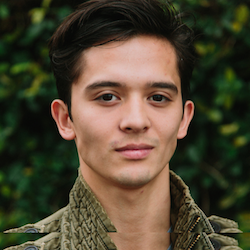
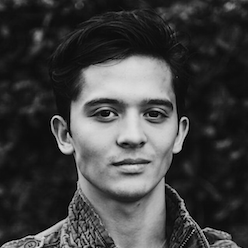
new colors

diff --git a/index.html b/index.html
@@ -27,9 +27,7 @@
                 <li class="block5 leftBlockBottom" id="">
                     <div class="noMargin noPadding animated fadeInanimated fadeIn">courtland gaba<br>(843) 480-5964<br><a href="mailto:courtlandmgaba@gmail.com">courtlandmgaba@gmail.com</a><br>Charleston, SC</div>
                     <div class="noMargin noPadding animated fadeIn">
-                        <a href="https://www.facebook.com/profile.php?id=100009087574948" target="_blank">                <img class="socialLink animated fadeIn" src="assets/images/facebook31.png" height="25px"alt=""></a>
                         <a href="https://www.linkedin.com/profile/view?id=409843816&trk=hp-identity-name" target="_blank"><img class="socialLink animated fadeIn" src="assets/images/linkedin11.png" height="25px"alt=""></a>
-                        <a href="https://twitter.com/courtlandmgaba" target="_blank">                                     <img class="socialLink animated fadeIn" src="assets/images/twitter21.png" height="25px"alt=""></a>
                         <a href="https://github.com/courtlandgaba" target="_blank">                                       <img class="socialLink animated fadeIn" src="assets/images/github7.png" height="25px"alt=""></a>
                         <a href="mailto:courtlandmgaba@gmail.com">                                                        <img class="socialLink animated fadeIn" src="assets/images/email.png" height="25px"alt=""></a>
                     </div>
@@ -93,7 +91,7 @@
             <!-- work -->
                 <div class="section section3" data-anchor="work">
                     <div class="row">
-                        <div class="title col-lg-10 col-lg-offset-1 animated fadeInUp">work</div>
+                        <div class="title col-lg-10 col-lg-offset-1 animated fadeInUp"></div>
                     </div>
                 <!-- dsi -->
                     <div class="slide">
@@ -311,15 +309,13 @@
                     <br>
                     <div class="row">
                         <div class="col-lg-1 col-lg-offset-1 col-md-1 col-md-offset-1  col-sm-2 col-sm-offset-1 col-xs-10 col-xs-offset-1 text-large animated fadeInUp">Tools</div>
-                        <div class="col-lg-8 col-md-8 col-sm-7 col-xs-10 col-xs-10 col-xs-offset-1 text-small paddingBottom animated fadeInUp">Terminal, Github, Git, Atom, Bower, Bootstrap</div>
+                        <div class="col-lg-8 col-md-8 col-sm-7 col-xs-10 col-xs-10 col-xs-offset-1 text-small paddingBottom animated fadeInUp">Terminal, Github, Git, Atom, Bower, Bootstrap, Grunt, Gulp, Jasmine</div>
                     </div>
                 </div>
                 <!-- mobile stuff -->
                 <div class="section5 hidden-lg hidden-md">
                     <div class="block55">courtland gaba<br>(843) 480-5964<br><a href="mailto:courtlandmgaba@gmail.com" target="_blank">courtlandmgaba@gmail.com</a><br>Charleston, SC<br>
-                        <a href="https://www.facebook.com/profile.php?id=100009087574948" target="_blank">                <img class="socialLink" src="assets/images/facebook31.png" height="25px"alt=""></a>
                         <a href="https://www.linkedin.com/profile/view?id=409843816&trk=hp-identity-name" target="_blank"><img class="socialLink" src="assets/images/linkedin11.png" height="25px"alt=""></a>
-                        <a href="https://twitter.com/courtlandmgaba" target="_blank">                                     <img class="socialLink" src="assets/images/twitter21.png" height="25px"alt=""></a>
                         <a href="https://github.com/courtlandgaba" target="_blank">                                       <img class="socialLink" src="assets/images/github7.png" height="25px"alt=""></a>
                         <a href="mailto:courtlandmgaba@gmail.com" target="_blank">                                        <img class="socialLink" src="assets/images/email.png" height="25px"alt=""></a>
                     </div>

diff --git a/assets/css/style.css b/assets/css/style.css
@@ -4,7 +4,7 @@ body, html {
     max-width: 100%;
 }
 a {
-    color: #476d70;
+    color: rgb(136, 72, 72);
 }
 a:focus {
     text-decoration: none;
@@ -40,16 +40,16 @@ a:hover {
 
 /* background Colors */
 .section1 {
-    background-color: #919191;
+    background-color: #010101;
 }
 .section2 {
-    background-color: white;
+    background-color: whitesmoke;
 }
 .section3 {
     background-color: whitesmoke;
 }
 .section4 {
-    background-color: white;
+    background-color: whitesmoke;
 }
 
 
@@ -64,8 +64,8 @@ a:hover {
     font-family: 'Montserrat', sans-serif;
     font-size: 50px;
     text-transform: uppercase;
-    font-weight: 800;
-    letter-spacing: 25px;
+    font-weight: 100;
+    letter-spacing: 10px;
     color: black;
     text-align: center;
 
@@ -74,7 +74,7 @@ a:hover {
     font-family: 'Montserrat', sans-serif;
     font-size: 30px;
     font-weight: 100;
-    color: rgb(34, 34, 34);
+    color: black;
     text-transform: uppercase;
     margin-top: -40px;
 }
@@ -82,7 +82,7 @@ a:hover {
     font-family: 'Montserrat', sans-serif;
     font-size: 23px;
     font-weight: 500;
-    color: rgb(34, 34, 34);
+    color: black;
     text-transform: uppercase;
 }
 .text-small {
@@ -135,7 +135,7 @@ a:hover {
 }
 .active .leftBlockTop {
     color: black;
-    background-color: white;
+    background-color: whitesmoke;
 
 }
 .leftBlockTop {
@@ -183,25 +183,25 @@ a:hover {
     -webkit-transition: all 0.2s ease 0s;
 }
 .block2 {
-    background-color: rgb(34, 34, 34);
+    background-color: rgb(41, 0, 0);
     transition: all 0.2s ease 0s;
     -moz-transition: all 0.2s ease 0s;
     -webkit-transition: all 0.2s ease 0s;
 }
 .block3 {
-    background-color: rgb(34, 34, 34);
+    background-color: rgb(41, 0, 0);
     transition: all 0.2s ease 0s;
     -moz-transition: all 0.2s ease 0s;
     -webkit-transition: all 0.2s ease 0s;
 }
 .block4 {
-    background-color: rgb(34, 34, 34);
+    background-color: rgb(41, 0, 0);
     transition: all 0.2s ease 0s;
     -moz-transition: all 0.2s ease 0s;
     -webkit-transition: all 0.2s ease 0s;
 }
 .block5 {
-    background-color: rgb(55, 55, 55);
+    background-color: black;
     transition: all 0.2s ease 0s;
     -moz-transition: all 0.2s ease 0s;
     -webkit-transition: all 0.2s ease 0s;
@@ -249,7 +249,7 @@ a:hover {
 .intro {
     font-family: 'Montserrat', sans-serif;
     color: white;
-    font-weight: 600;
+    font-weight: 100;
     text-transform: uppercase;
     letter-spacing: 4px;
     padding: 0 0 0 5%;
@@ -263,7 +263,7 @@ a:hover {
 
 /* work 3333*/
 .work-block {
-    background: #919191;
+    background: black;
     color: white;
     font-family: 'Montserrat', sans-serif;
     text-transform: uppercase;
@@ -274,15 +274,15 @@ a:hover {
 .section3 a{
     font-family: 'Montserrat', sans-serif;
     font-size: 15px;
-    color: #919191;
+    color: black;
     font-weight: 300;
     letter-spacing: 6px;
     text-transform: uppercase;
-    margin: 0 5px;
+    margin: 0 15px;
 }
 .section3 a:hover{
     text-decoration: underline;
-    color: rgba(0, 0, 0, 0.5);
+    color: rgb(136, 72, 72);
 }
 
 @media (min-width: 0px) and (max-width: 768px) {
@@ -331,7 +331,7 @@ a:hover {
     letter-spacing: 8px;
     text-transform: uppercase;
     text-decoration:none;
-    color: rgb(34, 34, 34);
+    color: rgb(41, 0, 0);
 }
 .mobileNav a:hover: {
     color: rgba(33, 27, 25, 0.5);
@@ -382,6 +382,6 @@ a:hover {
 }
 .block66 {
     padding: 20px;
-    background-color: rgb(34, 34, 34);
+    background-color: rgb(41, 0, 0);
     text-align: center;
 }
